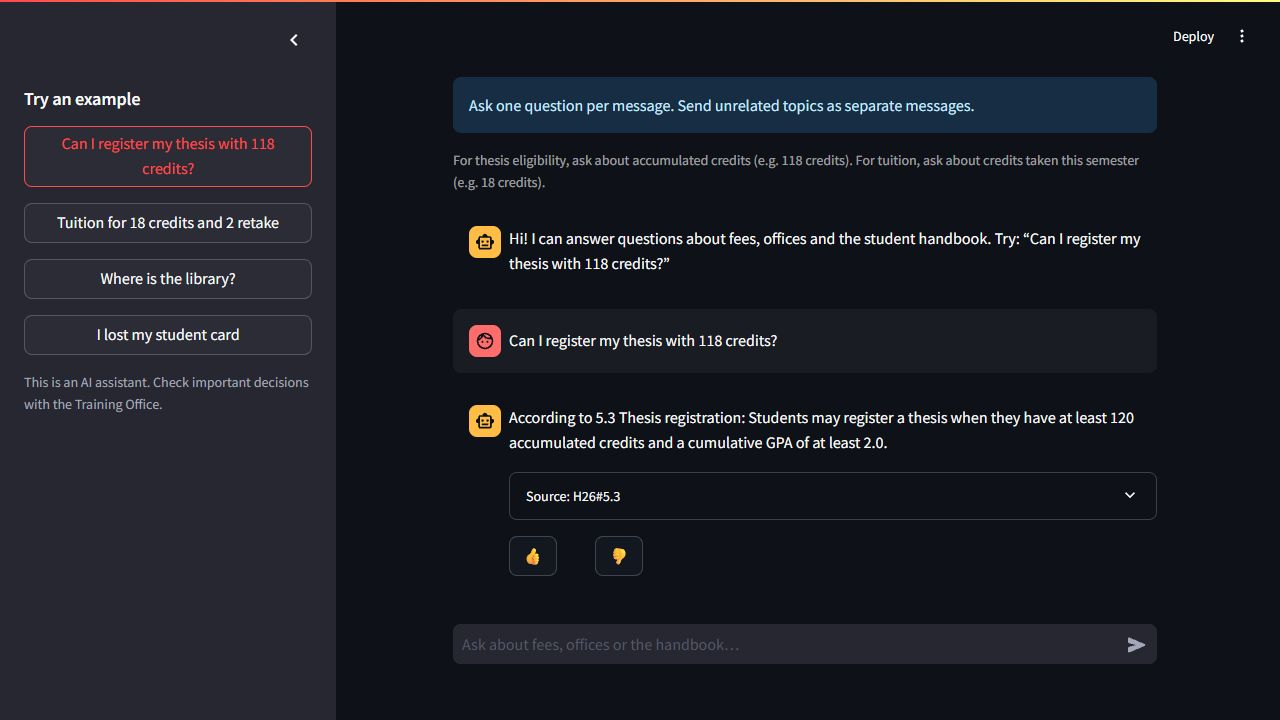
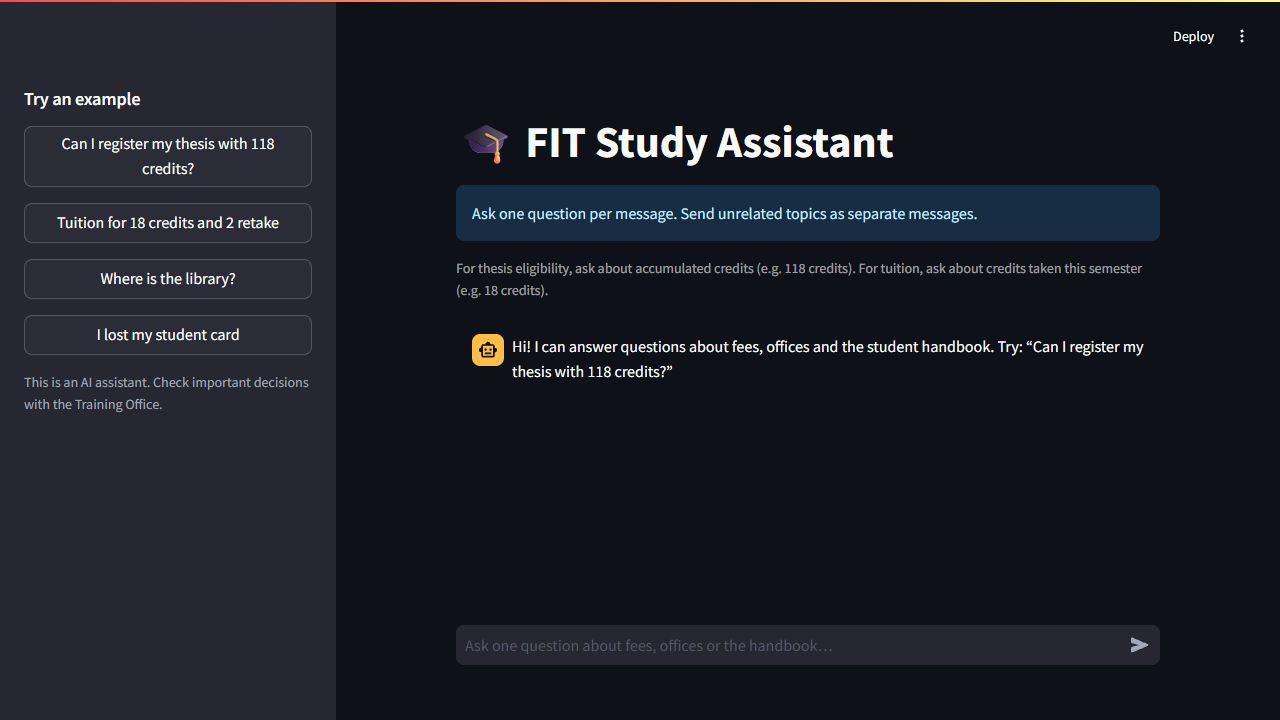
docs(lab7): finalize review evidence and unmeasured session timing

diff --git a/ui/app.py b/ui/app.py
@@ -76,7 +76,9 @@ for i, m in enumerate(st.session_state.messages):
             st.caption("✓ Feedback recorded — thanks!")
 
 # ---- new question ----------------------------------------------------------------
-question = st.chat_input("Ask one question about fees, offices or the handbook…") or st.session_state.pop("pending", None)
+question = st.chat_input("Ask one question about fees, offices or the handbook…") or st.session_state.pop(
+    "pending", None
+)
 if question:
     problem = validate_input(question)
     if problem:

diff --git a/docs/lab7/user_test-giahuy.md b/docs/lab7/user_test-giahuy.md
@@ -48,7 +48,8 @@ Selected because the supplied screenshot shows a concrete misunderstanding durin
 assigned task: a mixed tuition/card question receives only the tuition validation error.
 The user selected this observation for the H1 fix.
 
-Added a small, always-visible guidance block below the app title:
+Added a compact guidance block on the initial screen; once chat starts, the input
+placeholder continues to ask for one question at a time:
 
 - “Ask one question per message. Send unrelated topics as separate messages.”
 - Distinguish accumulated credits for thesis eligibility (118) from credits taken
@@ -66,16 +67,16 @@ Unmodified screenshot supplied by Gia Huy, copied to the required before filenam
 
 ### After
 
-Actual developer browser capture after the fix, showing the guidance and the separately
-submitted thesis question. The image was saved as PNG without altering its content.
+Actual developer browser capture of the initial screen after the review fix, showing
+the guidance and separate examples. The image is saved as PNG without content changes.
 
 ![After: visible single-question and credit guidance](img/giahuy-after.png)
 
 Developer verification on 2026-11-27: sent the thesis example and then the lost-card
 example as separate messages; received the 120-credit/GPA requirement with H26#5.3,
 then Student Affairs, room I.102 with S26#3. UI tests: 13 passed; Ruff check/format passed.
-These checks establish the UI is functioning, not that the participant's confusion
-has been resolved. A participant follow-up remains to be done.
+Participant follow-up after the fix has not been performed.
 
-The source-expander bonus was implemented independently of participant research;
-its screenshots must not be presented as a participant-driven H1 fix.
+The source-expander bonus is separate from the observation-3 guidance fix.
+
+Review follow-up validation: 306 full tests passed, 13 UI tests passed and Ruff check/format passed after integrating main's shared feedback UI.

diff --git a/docs/ai-use-log.md b/docs/ai-use-log.md
@@ -44,3 +44,4 @@
 | 2026-11-27 | Gia Huy (wiih0521) | OpenAI Codex | Lab 7 session details | Used Codex to record Gia Huy confirmed date 2026-11-27, hallway approximately 2 minutes, H1 approximately 6 minutes and assigned-task completion. Kept the actual 6-minute duration distinct from the requested 10 minutes; outside-group eligibility remains unconfirmed. |
 | 2026-11-27 | THA (hoanganhtu0922) | Claude Code | Lab 7, PR #71, lab7/hoanganh-core and lab7/hoanganh-hw | Used AI to help verify the six D.4 states with pytest/Ruff/AppTest, suggest the `st.empty()` feedback-slot fix and H1 button-label/confirmation improvement. Reviewed all changes. |
 | 2026-11-27 | Gia Huy (wiih0521) | OpenAI Codex | PR #77 review follow-up | Used Codex to integrate main shared UI/logic per team rules, preserve both AI log histories, adapt the feedback warning test, add missing empty-input/sidebar screenshots with per-row links, and shorten hallway wording without inventing participant behavior. 12 UI tests passed. |
+| 2026-11-27 | Gia Huy (wiih0521) | OpenAI Codex | PR #78 review follow-up | Used Codex to preserve main feedback labels/confirmation, expose source ID and title on expander labels, limit guidance to the initial screen, update screenshot evidence and shorten documentation. The user clarified H1 was not timed; six minutes was only an initial estimate, not a measured duration. Removed the reflection draft reminder after discussion; AI assistance remains disclosed here. |

diff --git a/docs/lab7/usability_checklist-giahuy.md b/docs/lab7/usability_checklist-giahuy.md
@@ -31,8 +31,8 @@ question control. Whether they noticed the examples or feedback buttons was not 
 
 ## Bonus — source expanders
 
-Each newly received source has its own `Source: <id>` expander; expanding it reveals
-the title as plain text. Existing session messages that only contain the formatted
+Each newly received source shows both its ID and title on the expander label;
+expanding it displays the title as plain text. Existing session messages that only contain the formatted
 source caption still display correctly. This UI change does not import backend code
 or alter answers, grounding or HTTP requests.
 
@@ -47,3 +47,7 @@ Before bonus: [caption screenshot](img/giahuy-core-sources.jpg).
 
 Merge the bonus/homework branch only after the L1/L2/F1 core branch; when shared-file
 conflicts arise, preserve the team's merged core behavior and reapply only the source view.
+
+Review follow-up: long guidance appears only before the first question; the chat input
+keeps a one-question hint. Rechecked at 390 × 844: source labels wrap, both feedback
+controls are reachable and there is no horizontal page overflow.
